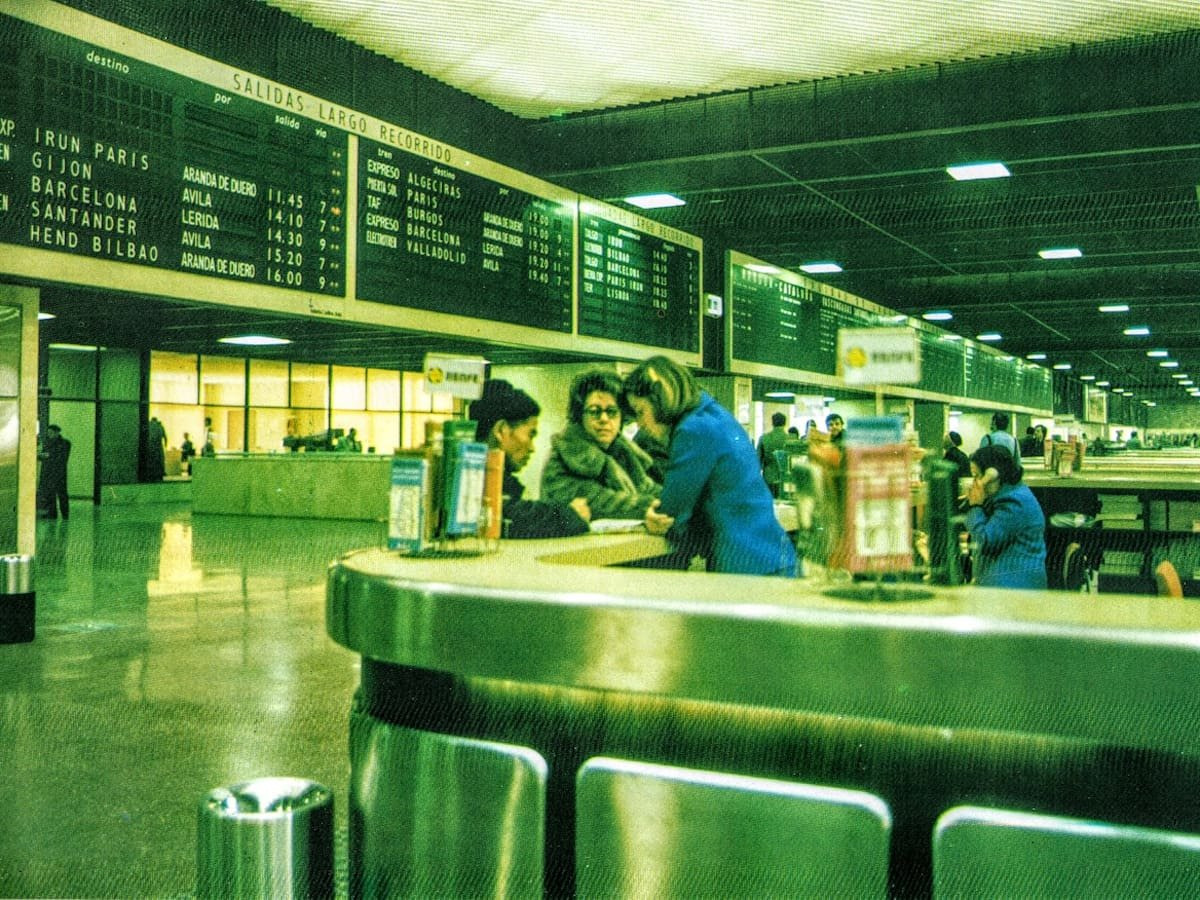
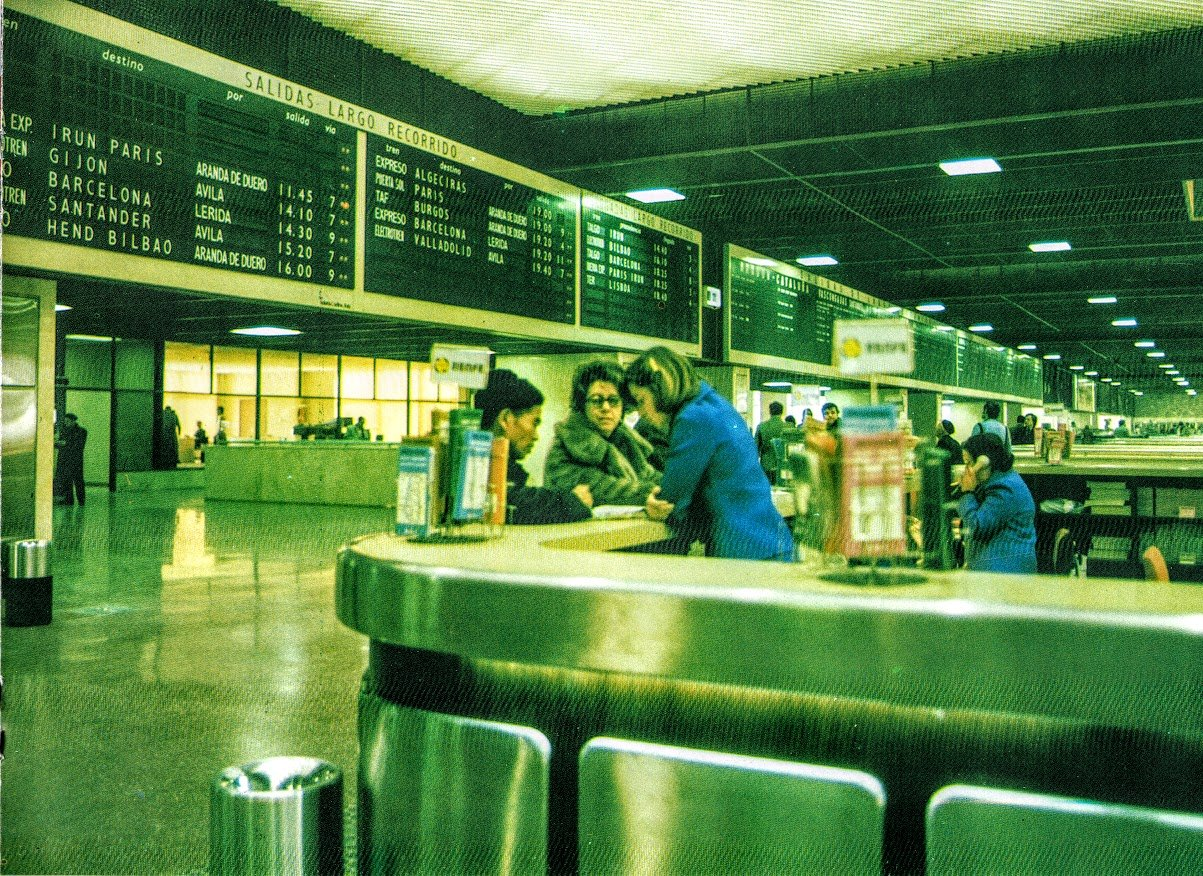
Credit the Renfe archive photo of Chamartín to its post on X
The same photograph, slightly less cropped, from the post that dates it
to the 1980s and credits Renfe's archive.

Claude-Session: https://claude.ai/code/session_013oSwjKfgy5t2v2waqouYjX

diff --git a/src/content/models/paletas-chamartin-vestibulo/index.md b/src/content/models/paletas-chamartin-vestibulo/index.md
@@ -39,11 +39,11 @@ photos:
     alt: >-
       El vestíbulo de Chamartín desde un mostrador de información, con varios
       paneles de salidas de paletas en lo alto.
-    caption: Chamartín, en una fotografía del archivo de Renfe.
+    caption: Chamartín, años ochenta, en una fotografía del archivo de Renfe.
     place: Madrid Chamartín
     author: Archivo Renfe
-    sourceUrl: https://cadenaser.com/resizer/v2/57J2PKEX3BAFHLIW6SRDVPV7YE.jpg?auth=0003fac0fde339c8c49d7bd64c229c6f860ede0e497ac82b2a035f0c1a5d778a&quality=70&width=1200&height=900&smart=true
-    source: Cadena SER
+    sourceUrl: https://x.com/ger58056/status/1602384737305513986
+    source: X (@ger58056)
     license: rights-reserved-credited
   - id: chamartin-2007
     src: ./chamartin-2007.jpg
